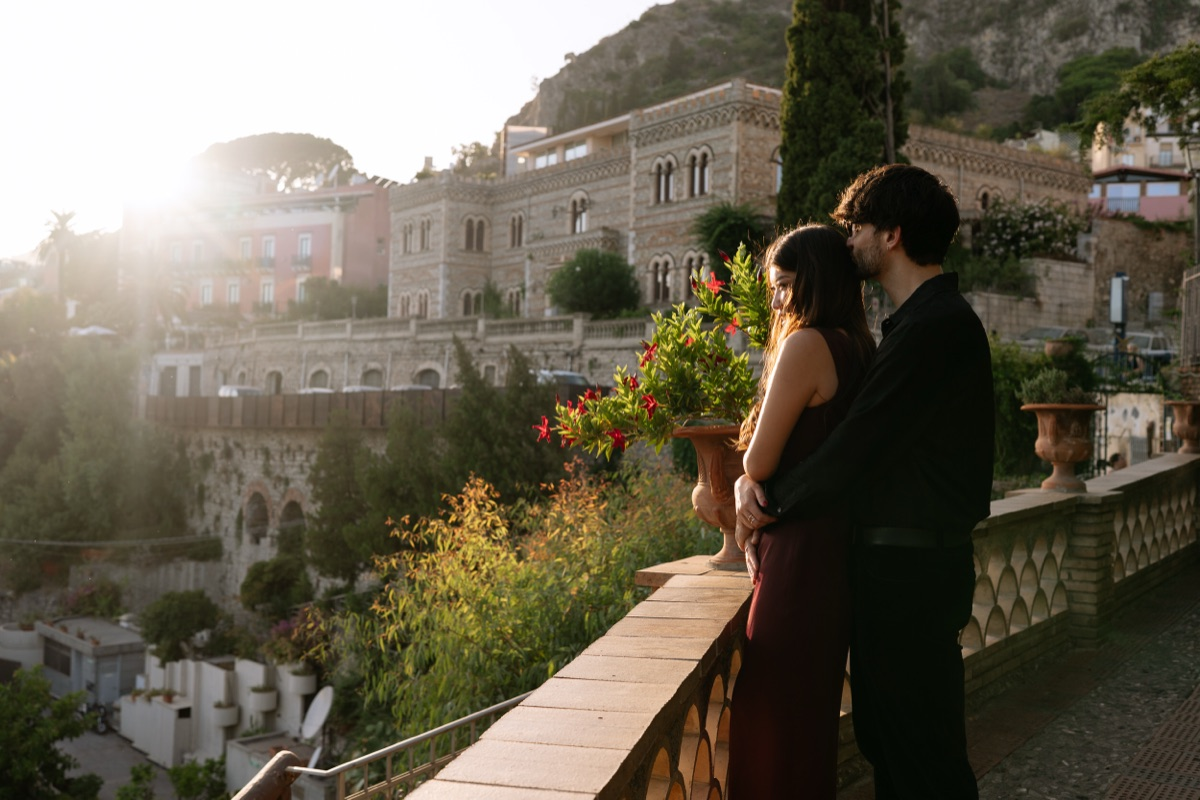
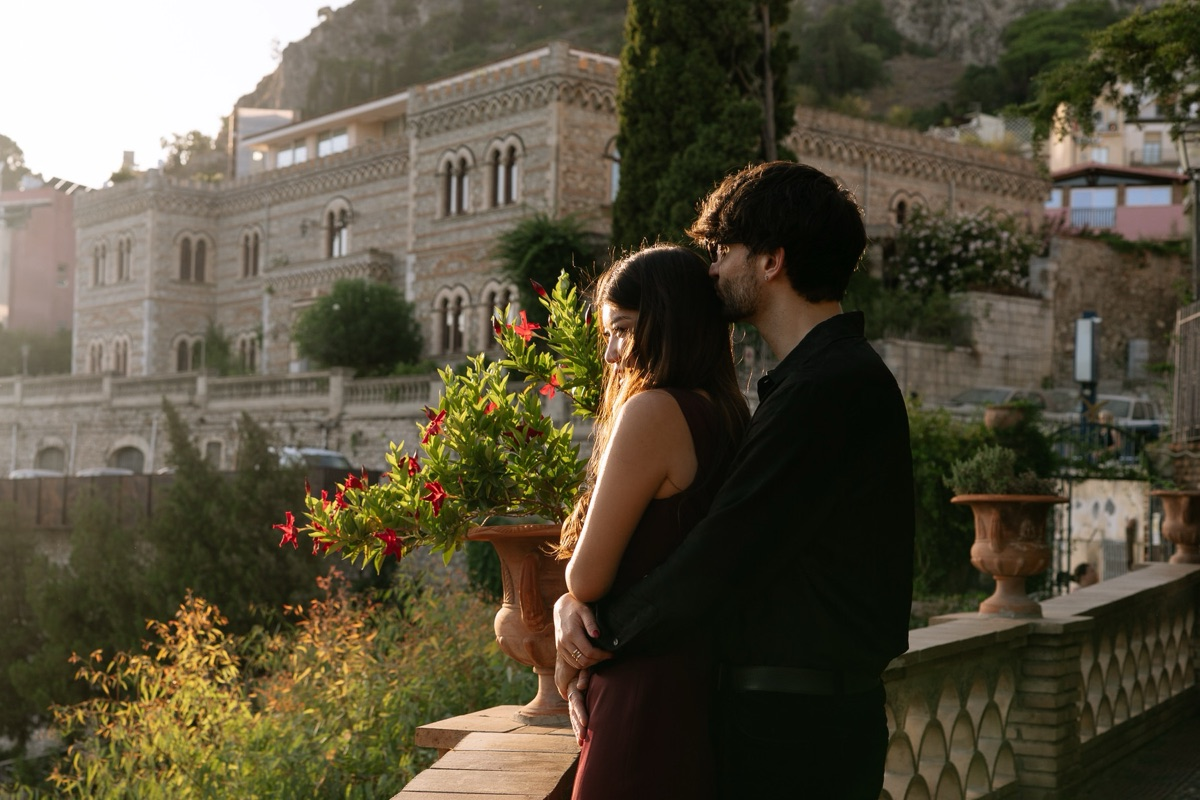
Add the save-the-date email and its Apps Script sender
email/save-the-date.html is the hosted "view in browser" copy at
/email/save-the-date/ (layout: null, noindex, not in the sitemap) and the
HTML that gets sent. Table-based, 600px card in the site's palette, fluid
below 600 so it survives a Gmail-compose paste; Outlook ghost table and
cell padding on the buttons; the date is a deliberate link so iOS Mail's
data detector leaves it alone; Google Calendar first, .ics second.

_email/send-save-the-date.gs sends the hosted HTML verbatim, one guest per
message, from the amandafrancis@ account via GmailApp (Gmail's mail merge
is not offered from secondary domains, and a compose paste drops the
responsive and Outlook CSS). Underscore folder, so Jekyll ignores it.

The banner is re-cropped tighter (x 700-2500, y 100-1300 of the original)
so the couple reads at email size and the sun flare is out of frame.

diff --git a/email/save-the-date.html b/email/save-the-date.html
@@ -1,0 +1,151 @@
+---
+layout: null
+permalink: /email/save-the-date/
+sitemap: false
+title: Save the Date
+---
+<!DOCTYPE html PUBLIC "-//W3C//DTD XHTML 1.0 Transitional//EN" "http://www.w3.org/TR/xhtml1/DTD/xhtml1-transitional.dtd">
+<html xmlns="http://www.w3.org/1999/xhtml" xmlns:v="urn:schemas-microsoft-com:vml" xmlns:o="urn:schemas-microsoft-com:office:office" lang="en">
+<head>
+<meta http-equiv="Content-Type" content="text/html; charset=utf-8">
+<meta name="viewport" content="width=device-width, initial-scale=1">
+<meta http-equiv="X-UA-Compatible" content="IE=edge">
+<meta name="x-apple-disable-message-reformatting">
+<meta name="color-scheme" content="dark">
+<meta name="supported-color-schemes" content="dark">
+<meta name="robots" content="noindex,nofollow">
+<title>Save the Date · Amanda &amp; Francis · August 7th, 2027</title>
+<!--[if mso]>
+<xml><o:OfficeDocumentSettings><o:PixelsPerInch>96</o:PixelsPerInch></o:OfficeDocumentSettings></xml>
+<style>table, td, p, a, h1 { font-family: Georgia, 'Times New Roman', serif !important; }</style>
+<![endif]-->
+<!--[if !mso]><!-->
+<link href="https://fonts.googleapis.com/css2?family=Cormorant+Garamond:ital,wght@0,300;0,400;1,300;1,400&family=Cormorant+SC:wght@500&display=swap" rel="stylesheet">
+<!--<![endif]-->
+<style>
+  /* Everything that matters is inline (Gmail keeps only inline styles when this
+     is pasted into compose; Apps Script / the Gmail API keep the whole file).
+     This block adds the web fonts where clients allow them, the phone layout,
+     and the iOS date-detector guard. Palette is the site's (_sass/_tokens.scss):
+     base #15110D, deep #0A0705, travertine #F1E6CC, whisper #C8B596,
+     muted #998260, gilt #B5894A (65% on base = #7D5F35), gilt-bright #D4A55C. */
+  body { margin: 0; padding: 0; background: #0A0705; -webkit-text-size-adjust: 100%; }
+  table { border-collapse: collapse; mso-table-lspace: 0; mso-table-rspace: 0; }
+  img { border: 0; outline: none; text-decoration: none; -ms-interpolation-mode: bicubic; }
+  a { color: #D4A55C; }
+  a[x-apple-data-detectors] { color: inherit !important; text-decoration: none !important; font-size: inherit !important; font-family: inherit !important; font-weight: inherit !important; line-height: inherit !important; }
+  @media only screen and (max-width: 620px) {
+    .pad { padding-left: 24px !important; padding-right: 24px !important; }
+    .names { font-size: 36px !important; line-height: 1.05 !important; }
+    .date { font-size: 24px !important; }
+  }
+</style>
+</head>
+<body style="margin:0; padding:0; background:#0A0705;">
+
+<!-- Preheader: shows next to the subject line in the inbox, hidden in the body -->
+<div style="display:none; font-size:1px; line-height:1px; max-height:0; max-width:0; opacity:0; overflow:hidden; color:#0A0705;">
+  August 7th, 2027 &middot; Old Montr&eacute;al. Please save the date.
+</div>
+
+<table role="presentation" width="100%" cellpadding="0" cellspacing="0" border="0" bgcolor="#0A0705" style="background:#0A0705;">
+  <tr>
+    <td align="center" style="padding:32px 12px 40px;">
+
+      <!--[if mso]><table role="presentation" width="600" cellpadding="0" cellspacing="0" border="0" style="width:600px;"><tr><td><![endif]-->
+      <table role="presentation" width="100%" cellpadding="0" cellspacing="0" border="0" bgcolor="#15110D" style="width:100%; max-width:600px; background:#15110D;">
+
+        <!-- Photo -->
+        <tr>
+          <td align="center" style="padding:0; line-height:0;">
+            <a href="https://married.af" style="text-decoration:none;">
+              <img src="https://married.af/assets/save-the-date-terrace.jpg" width="600" height="400" alt="Amanda and Francis on a terrace in the evening sun" style="width:100%; max-width:600px; height:auto; display:block; border:0;">
+            </a>
+          </td>
+        </tr>
+
+        <!-- Eyebrow -->
+        <tr>
+          <td class="pad" align="center" style="padding:44px 32px 14px;">
+            <p style="margin:0; padding-left:5px; font-family:'Cormorant SC', 'Cormorant Garamond', Georgia, 'Times New Roman', serif; font-weight:500; font-size:12px; line-height:1; letter-spacing:5px; text-transform:uppercase; color:#998260;">Save the Date</p>
+          </td>
+        </tr>
+
+        <!-- Names -->
+        <tr>
+          <td class="pad" align="center" style="padding:0 32px;">
+            <h1 class="names" style="margin:0; font-family:'Cormorant Garamond', Georgia, 'Times New Roman', serif; font-weight:300; font-size:54px; line-height:1.05; letter-spacing:1px; color:#F1E6CC;">Amanda <span style="white-space:nowrap;"><span style="color:#B5894A; font-style:italic; font-weight:400;">&amp;</span> Francis</span></h1>
+          </td>
+        </tr>
+
+        <!-- Brass rule (gilt at the site's 65% structural opacity) -->
+        <tr>
+          <td align="center" style="padding:30px 0 0;">
+            <table role="presentation" cellpadding="0" cellspacing="0" border="0">
+              <tr><td width="100" height="1" bgcolor="#7D5F35" style="width:100px; height:1px; background:#7D5F35; font-size:1px; line-height:1px;">&nbsp;</td></tr>
+            </table>
+          </td>
+        </tr>
+
+        <!-- Date & place. The date is a deliberate link so iOS Mail's data
+             detector doesn't restyle it as a blue underlined link. -->
+        <tr>
+          <td class="pad" align="center" style="padding:30px 32px 0;">
+            <p class="date" style="margin:0; font-family:'Cormorant Garamond', Georgia, 'Times New Roman', serif; font-weight:300; font-size:30px; line-height:1.2; color:#F1E6CC;"><a href="https://married.af" style="color:#F1E6CC; text-decoration:none;">August 7th, 2027</a></p>
+            <p style="margin:14px 0 0; padding-left:5px; font-family:'Cormorant SC', 'Cormorant Garamond', Georgia, 'Times New Roman', serif; font-weight:500; font-size:12px; line-height:1.6; letter-spacing:5px; text-transform:uppercase; color:#C8B596;">Old Montr&eacute;al</p>
+          </td>
+        </tr>
+
+        <!-- Note -->
+        <tr>
+          <td class="pad" align="center" style="padding:34px 32px 0;">
+            <p style="margin:0; font-family:'Cormorant Garamond', Georgia, 'Times New Roman', serif; font-style:italic; font-weight:300; font-size:20px; line-height:1.55; color:#C8B596;">We&rsquo;re getting married, and we&rsquo;d love for you to be there. The invitation, with everything you&rsquo;ll need to know about the weekend, will follow. For now, please save the date.</p>
+          </td>
+        </tr>
+
+        <!-- Calendar: Google first (most guests), everything else via the .ics.
+             Padding lives on the cells so Outlook draws full-height buttons. -->
+        <tr>
+          <td class="pad" align="center" style="padding:36px 32px 0;">
+            <table role="presentation" width="100%" cellpadding="0" cellspacing="0" border="0" style="width:100%; max-width:320px;">
+              <tr>
+                <td align="center" bgcolor="#B5894A" style="background:#B5894A; border:1px solid #B5894A; border-radius:2px; padding:16px 20px 15px 23px;">
+                  <a href="https://calendar.google.com/calendar/render?action=TEMPLATE&amp;text=Amanda%20%26%20Francis%20Wedding&amp;dates=20270807T210000Z%2F20270808T070000Z&amp;details=Visit%20https%3A%2F%2Fmarried.af%20for%20updates%20or%20email%20us%20at%20amandafrancis%40married.af%20with%20any%20questions.&amp;location=Crew%20Collective%2C%20360%20Rue%20Saint-Jacques%2C%20Old%20Montr%C3%A9al%2C%20QC" style="display:block; font-family:Georgia, 'Times New Roman', serif; font-size:11px; line-height:1; letter-spacing:3px; text-transform:uppercase; color:#15110D; text-decoration:none;">Add to Google Calendar</a>
+                </td>
+              </tr>
+              <tr><td height="10" style="height:10px; font-size:1px; line-height:1px;">&nbsp;</td></tr>
+              <tr>
+                <td align="center" style="border:1px solid #7D5F35; border-radius:2px; padding:16px 20px 15px 23px;">
+                  <a href="https://married.af/assets/amanda-francis-wedding.ics" style="display:block; font-family:Georgia, 'Times New Roman', serif; font-size:11px; line-height:1; letter-spacing:3px; text-transform:uppercase; color:#F1E6CC; text-decoration:none;">Add to Other Calendars</a>
+                </td>
+              </tr>
+            </table>
+            <p style="margin:14px 0 0; font-family:Georgia, 'Times New Roman', serif; font-size:13px; line-height:1.6; color:#998260;">Apple, Outlook and the rest open the second one.</p>
+          </td>
+        </tr>
+
+        <!-- Site -->
+        <tr>
+          <td class="pad" align="center" style="padding:36px 32px 46px;">
+            <a href="https://married.af" style="display:inline-block; padding:8px 0; font-family:'Cormorant Garamond', Georgia, 'Times New Roman', serif; font-style:italic; font-size:22px; line-height:1; color:#D4A55C; text-decoration:none;">Visit married.af</a>
+          </td>
+        </tr>
+
+      </table>
+
+      <!-- Footer -->
+      <table role="presentation" width="100%" cellpadding="0" cellspacing="0" border="0" style="width:100%; max-width:600px;">
+        <tr>
+          <td class="pad" align="center" style="padding:24px 32px 0;">
+            <p style="margin:0; font-family:Georgia, 'Times New Roman', serif; font-size:13px; line-height:1.6; color:#998260;">Questions? Write to us at <a href="mailto:amandafrancis@married.af" style="color:#998260; text-decoration:underline;">amandafrancis@married.af</a>.</p>
+            <p style="margin:10px 0 0; font-family:Georgia, 'Times New Roman', serif; font-size:13px; line-height:1.6; color:#998260;"><a href="https://married.af/email/save-the-date/" style="color:#998260; text-decoration:underline;">View this in your browser</a></p>
+          </td>
+        </tr>
+      </table>
+      <!--[if mso]></td></tr></table><![endif]-->
+
+    </td>
+  </tr>
+</table>
+</body>
+</html>
